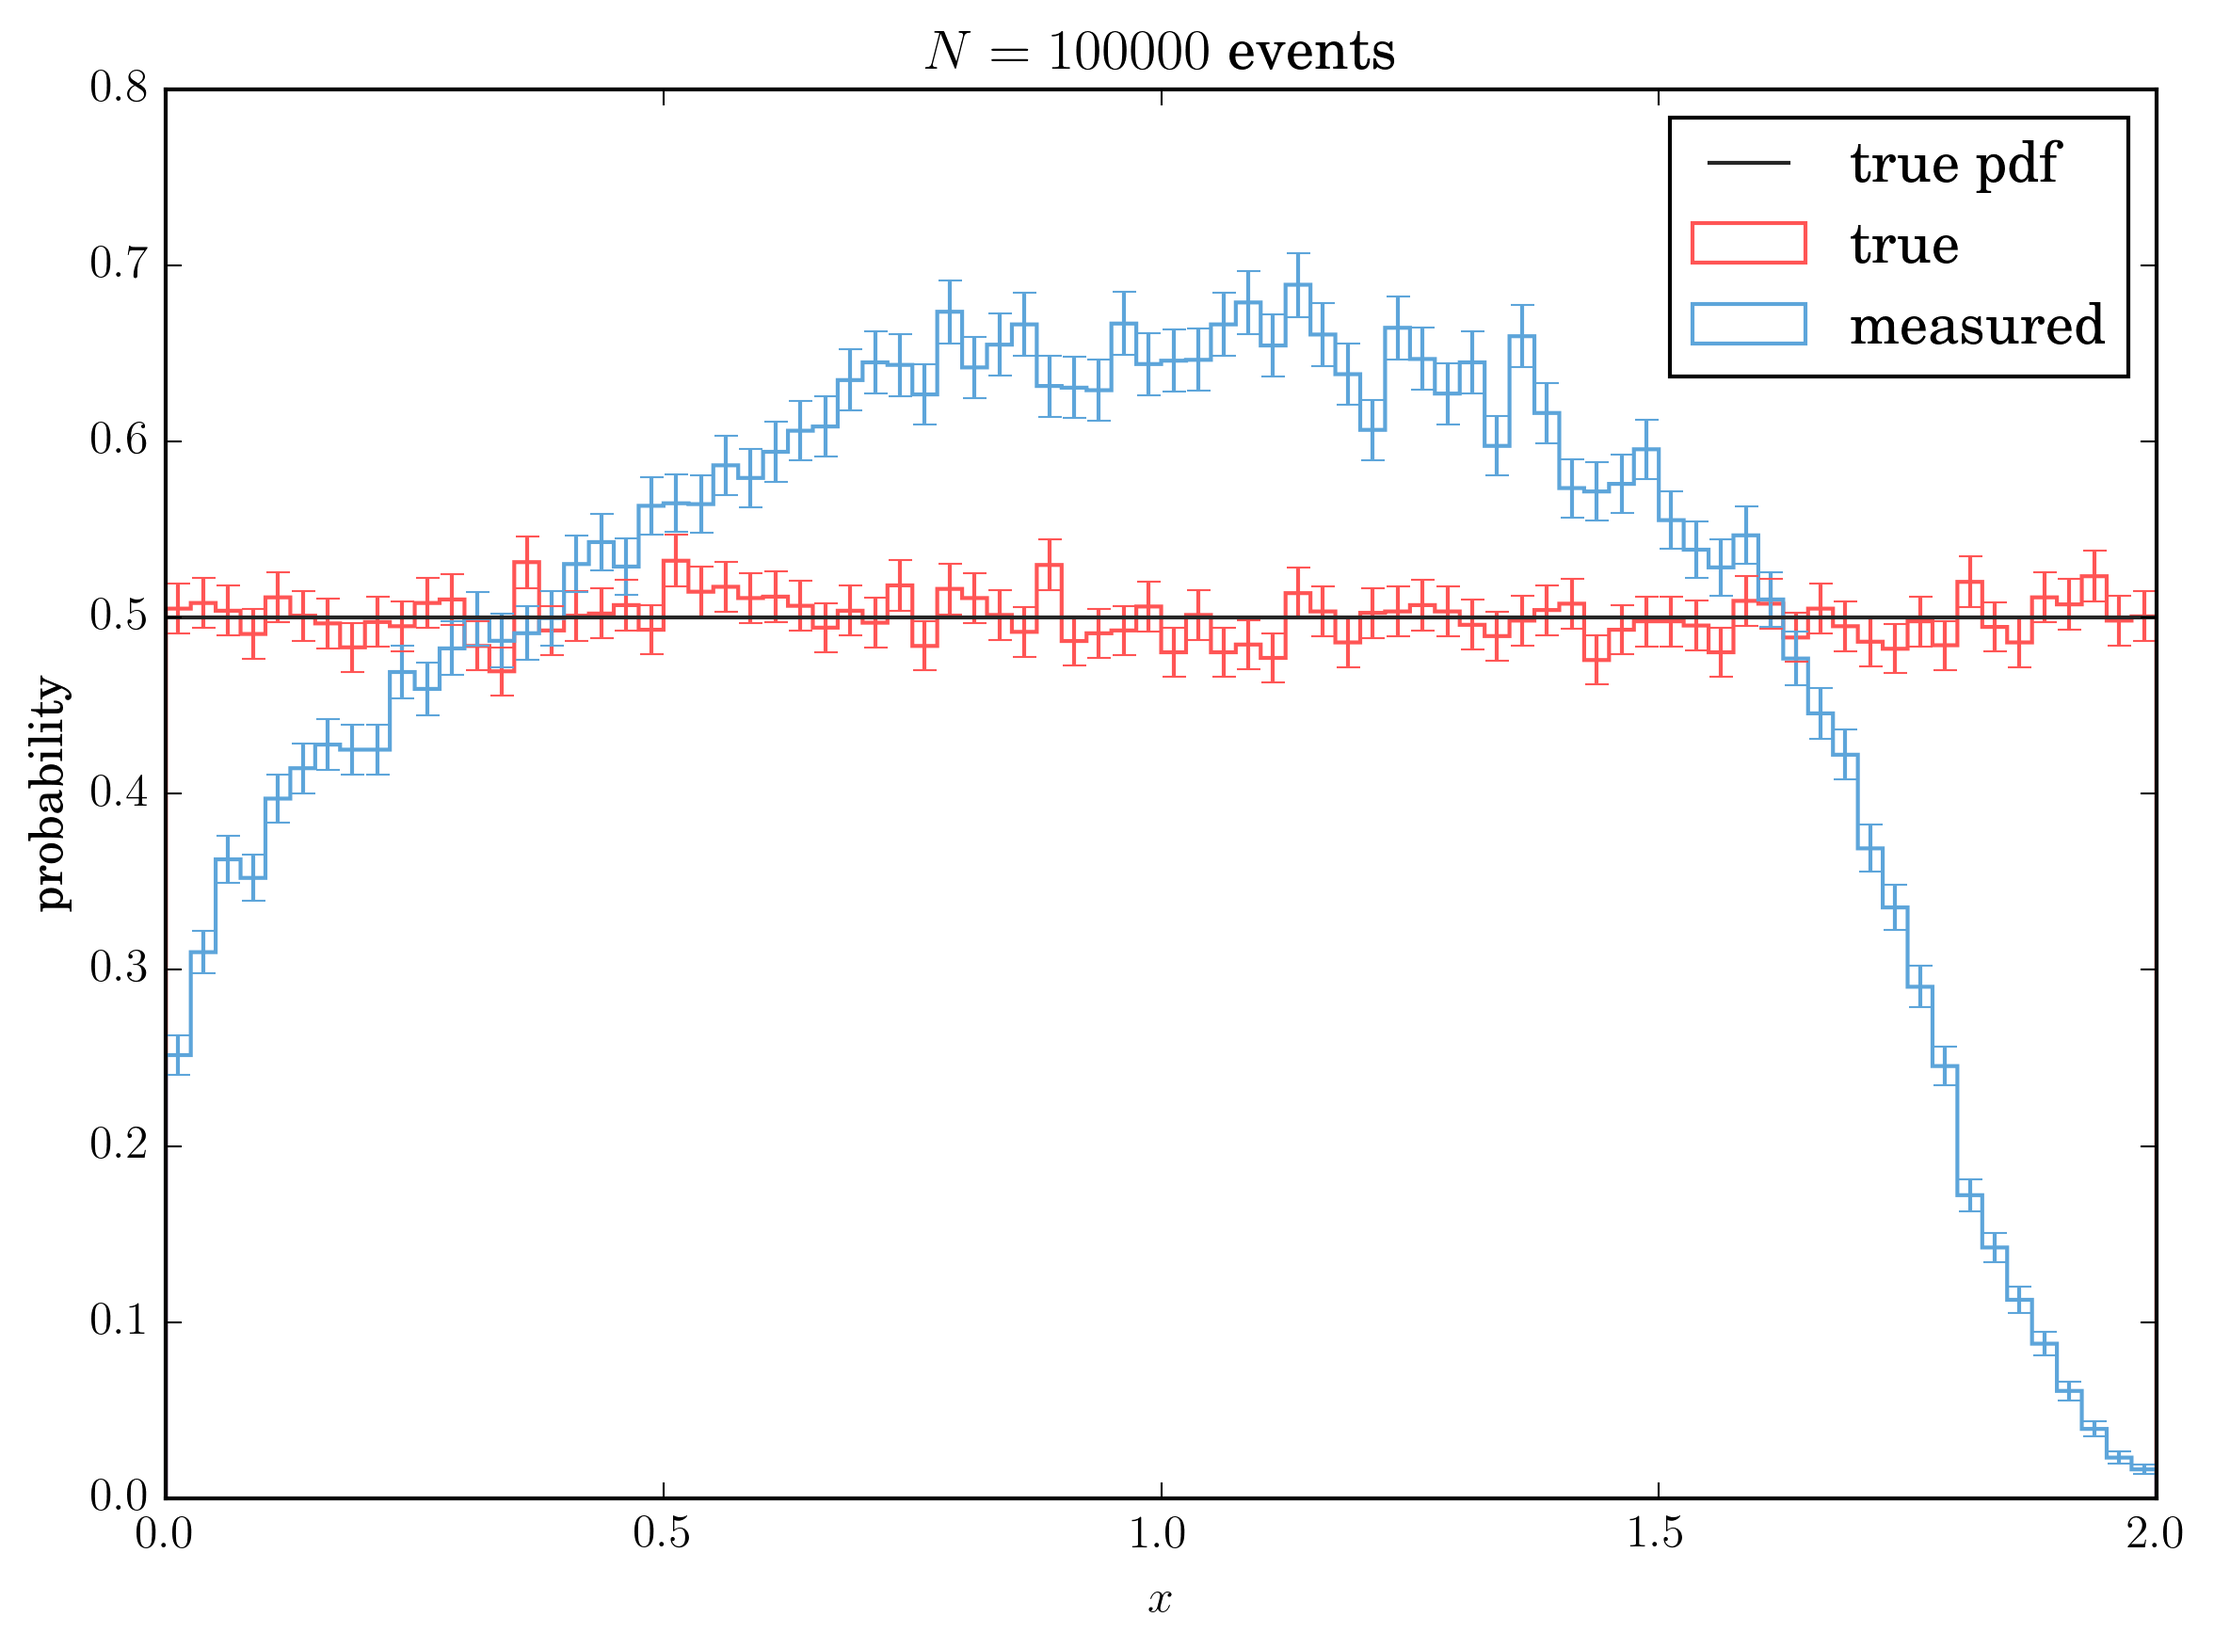
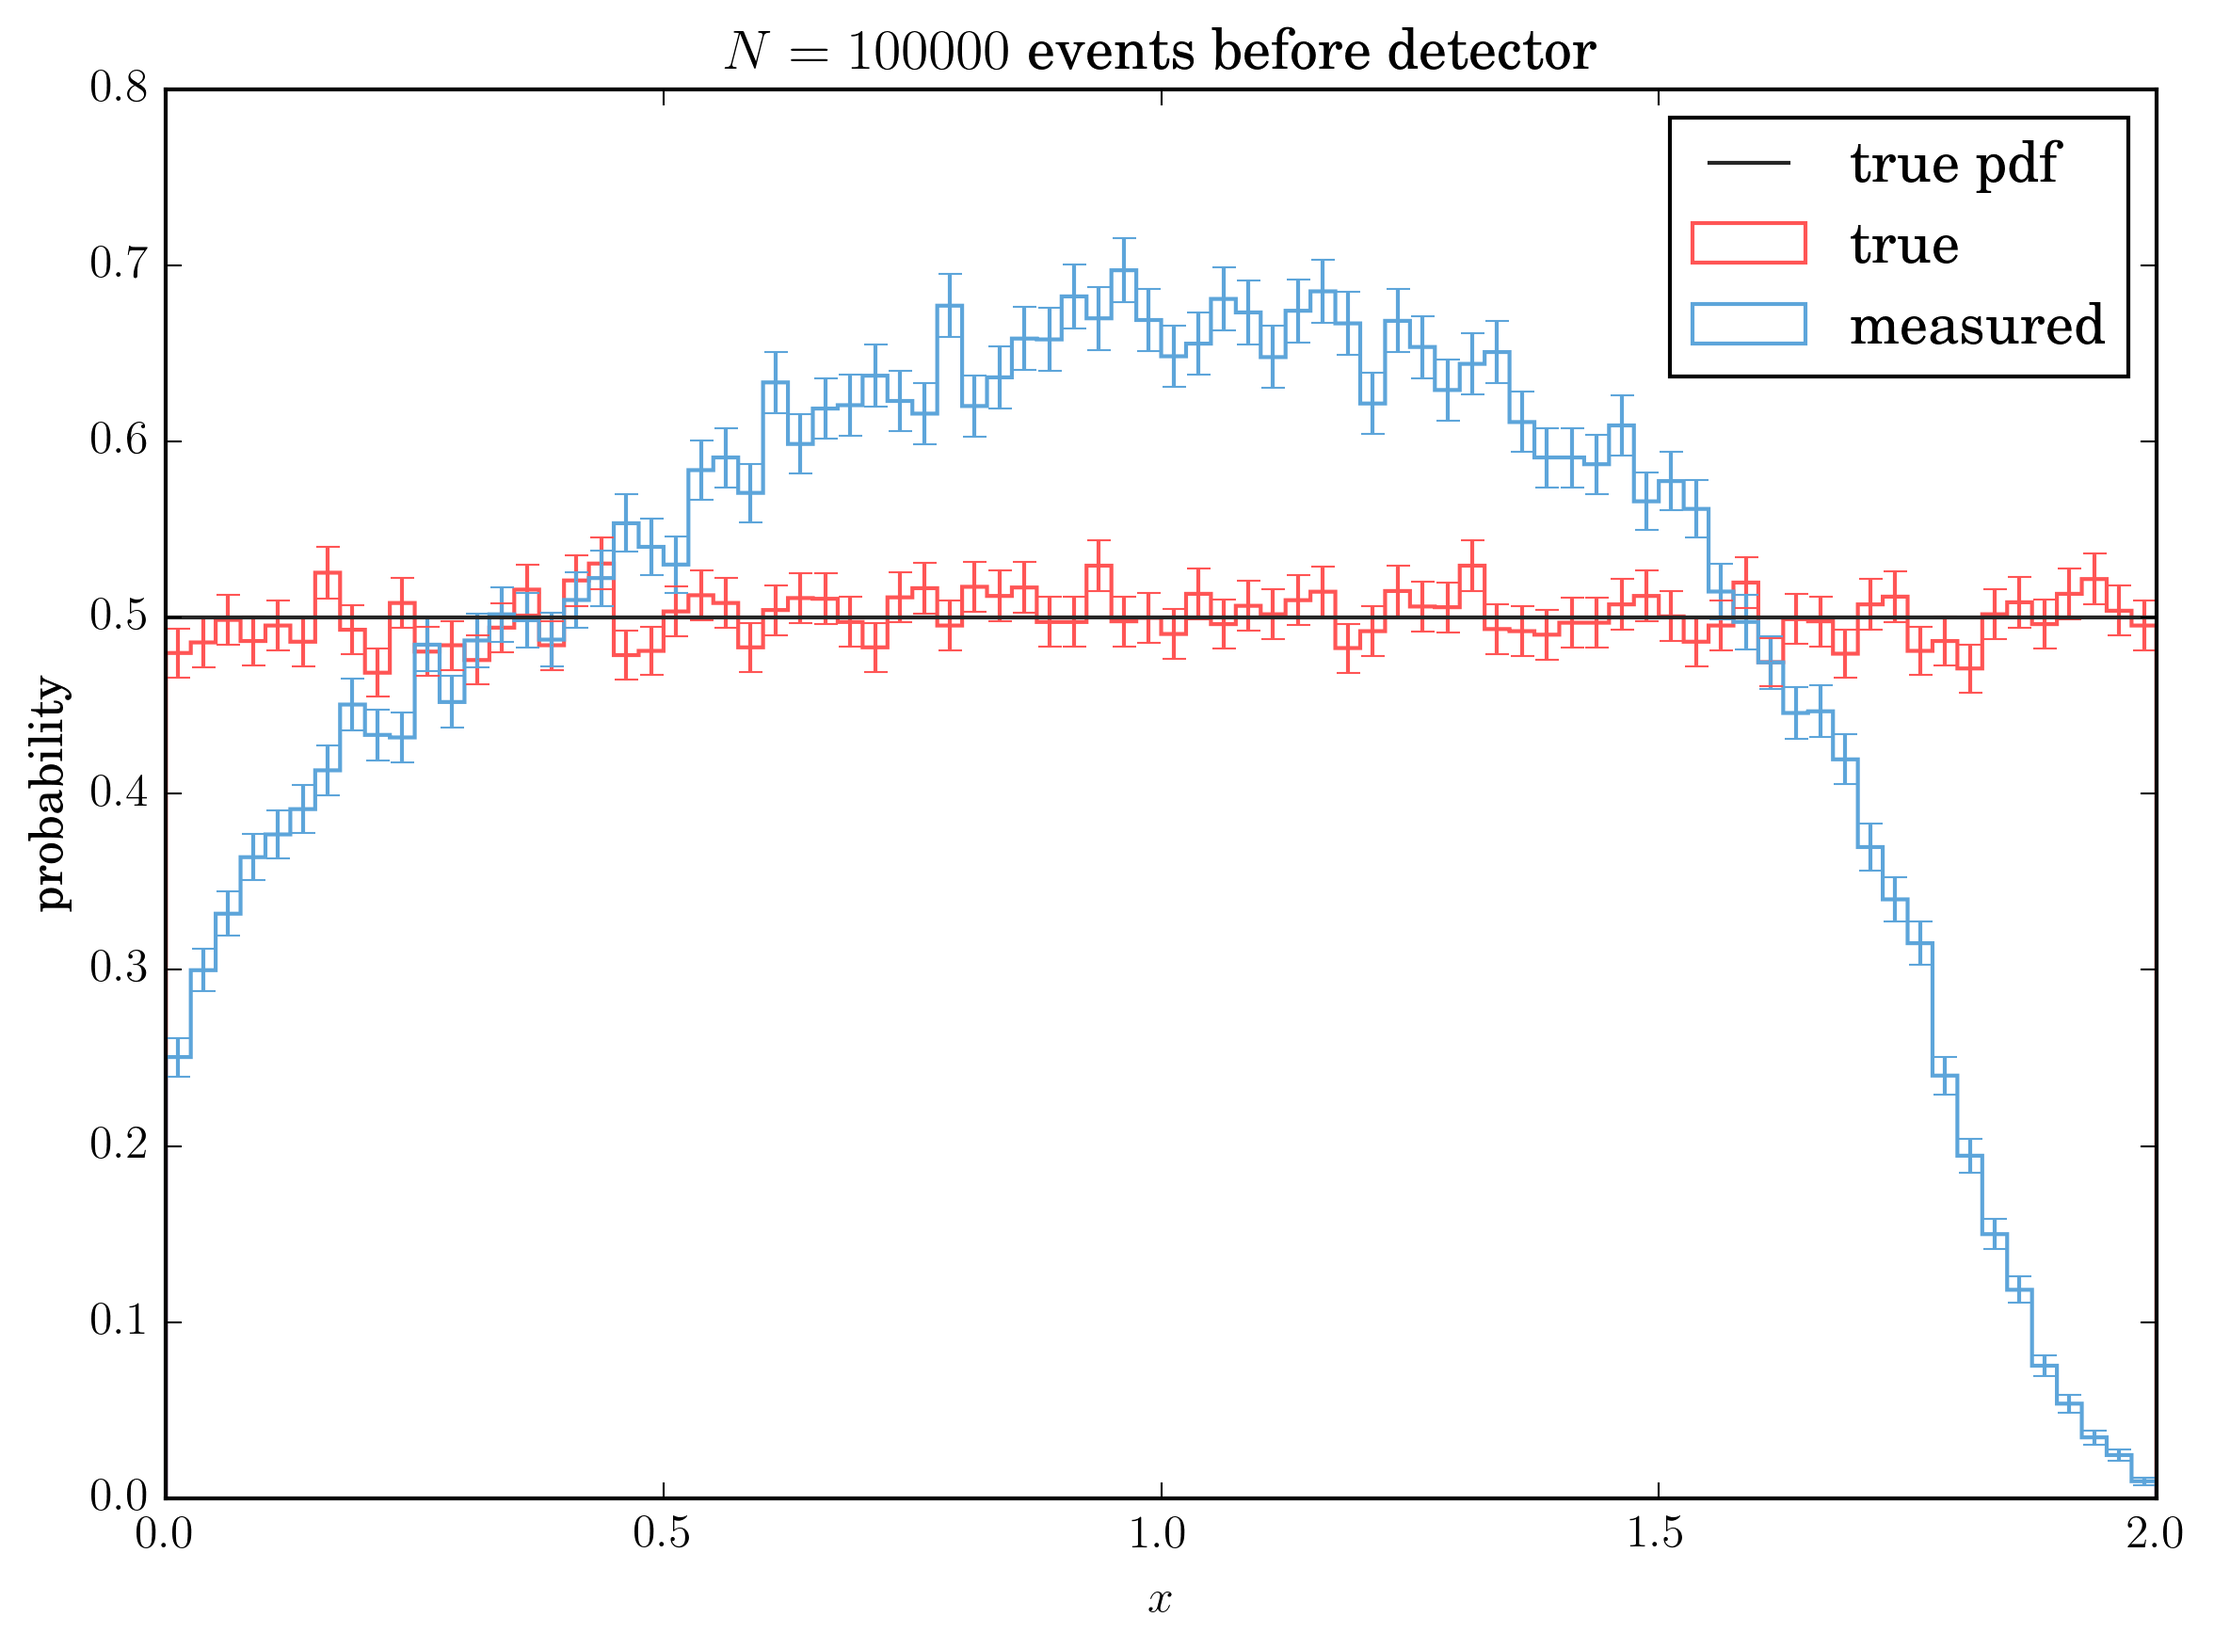
Added weights in gen and plot scripts

diff --git a/plots.py b/plots.py
@@ -49,18 +49,20 @@ def histerr(ax, data, nbins=20 ,**kwargs):
 	normed = kwargs.pop("normed", False)
 	color = kwargs.pop("color", "k")
 	range = kwargs.pop("range", None)
+	weights = kwargs.pop("weights", np.ones_like(data))
 
-	# Total num of events
-	nevents = len(data)
 	# Create hist
-	hist, bins = np.histogram(data, bins=nbins, range=range, normed=False)
+	hist, bins = np.histogram(data, bins=nbins, range=range,
+		normed=False, weights=weights)
+	# Total num of events with weighting
+	nevents = np.sum(hist)
 	# area under hist = sum_i (binwidth_i * nevents_i
 	#                 = intervall / nbins * nevents (for equal bin widths)
 	if normed == True:
 		hnorm = nbins / float(nevents * (xh - xl))
 	else:
 		hnorm = 1.
-	# Fisrt calculate poissonian errors, than scale hist otself
+	# First calculate poissonian errors, than scale hist otself
 	yerr = np.sqrt(hist) * hnorm
 	hist = hist * hnorm
 	binmids = 0.5 * (bins[:-1] + bins[1:])
@@ -73,7 +75,8 @@ def histerr(ax, data, nbins=20 ,**kwargs):
 	## Draw bins as errorbars
 	# ax.errorbar(binmids, hist, xerr=(bins[1]-bins[0])/2, fmt=",", color=color)
 	## Draw bins with steps
-	ax.hist(data, bins=nbins, normed=normed, range=range, color=color, **kwargs)
+	ax.hist(data, bins=nbins, normed=normed, range=range,
+		weights=weights, color=color, **kwargs)
 	ax.errorbar(binmids, hist, yerr=yerr, fmt=",", color=color)
 
 
@@ -95,9 +98,11 @@ for typ in ["train", "test"]:
 	nbins = 80
 	normed = True
 	histerr(ax, true["data"], normed=normed, nbins=nbins, range=[xl, xh],
-		weights=true["weight"], histtype="step", color=color["r"], label=r"true")
+		weights=true["weight"],
+		histtype="step", color=color["r"], label=r"true")
 	histerr(ax, meas["data"], normed=normed, nbins=nbins, range=[xl, xh],
-		weights=true["weight"], histtype="step", color=color["b"], label=r"measured")
+		weights=meas["weight"],
+		histtype="step", color=color["b"], label=r"measured")
 
 	# Plot true pdf
 	x = np.linspace(xl, xh, 1000)
@@ -106,7 +111,7 @@ for typ in ["train", "test"]:
 
 	ax.set_xlabel(r"$x$")
 	ax.set_ylabel(r"probability")
-	ax.set_title("$N = {{{}}}$ events".format(N))
+	ax.set_title("$N = {{{}}}$ events before detector".format(N))
 	ax.legend(loc="best")
 	fig.tight_layout()
 	fig.savefig("{}.png".format(typ), dpi=300, bbox_inches="tight")

diff --git a/mc_data_gen.py b/mc_data_gen.py
@@ -117,23 +117,24 @@ class NullUnfoldData(object):
 		# Shift values systematically
 		# y_shift = x - 0.2 * x**2 / 4.
 		xm = 0.5 * (self.xl + self.xh)
+		# negativ values make no sense
 		yl = np.maximum(self.xl, 0.)
-		ym = 0.95 * xm
-		yh = 1.8
+		ym = self.xl + 0.95 * (xm - self.xl)
+		yh = self.xl + 0.9 * (self.xh - self.xl)
 		measured = self._parabola(data, yl, ym, yh)
 		# Correct numerical errors at the lower boundary. Events should stay >= xl
 		measured[measured<self.xl] = self.xl
 
 		# Smearing, add gaussian to measured values
+		sigma = (self.xh - self.xl) / 20.
+		# Keep track of values smeared outside the boundaries
 		overflow = np.ones_like(measured, dtype=bool)
-		smear = np.copy(measured)
-		# If values are smeared to outside the bounds try again
+		presmeared = np.copy(measured)
+		# If values are smeareded to outside the bounds try again
 		while np.sum(overflow)>0:
-			smear[overflow] = measured[overflow] + np.random.normal(
-				loc=0, scale=0.1, size=len(measured[overflow]))
-			overflow = np.logical_or(smear<self.xl, smear>self.xh)
-
-		self.measured = smear
+			measured[overflow] = presmeared[overflow] + np.random.normal(
+				loc=0, scale=sigma, size=np.sum(overflow))
+			overflow = np.logical_or(measured<self.xl, measured>self.xh)
 
 		# Combine to recarray with fields (ID, data, weight)
 		self.meas = np.empty((self.N, ), dtype=[
@@ -147,11 +148,14 @@ class NullUnfoldData(object):
 
 	def _parabola(self, x, yl, ym, yh):
 		"""
-		Scaled acceptance function: parabola through the three points
+		Parabola through the three points
 			(xl | yl), (xm | ym), (xh | yh)
 		with xm = 0.5 * (xl + xh).
 
 		Solution is analytically computed.
+
+		A parabola is used for both shifting the data and for the acceptance
+		probability.
 
 		Parameters
 		----------
@@ -180,7 +184,7 @@ class NullUnfoldData(object):
 		b_ = b(a_, xm, self.xh, ym, yh)
 		c_ = c(a_, b_, self.xh, yh)
 
-		f = y(x, a_, b_, c_)
+		f = np.copy(y(x, a_, b_, c_))
 
 		return f
 
